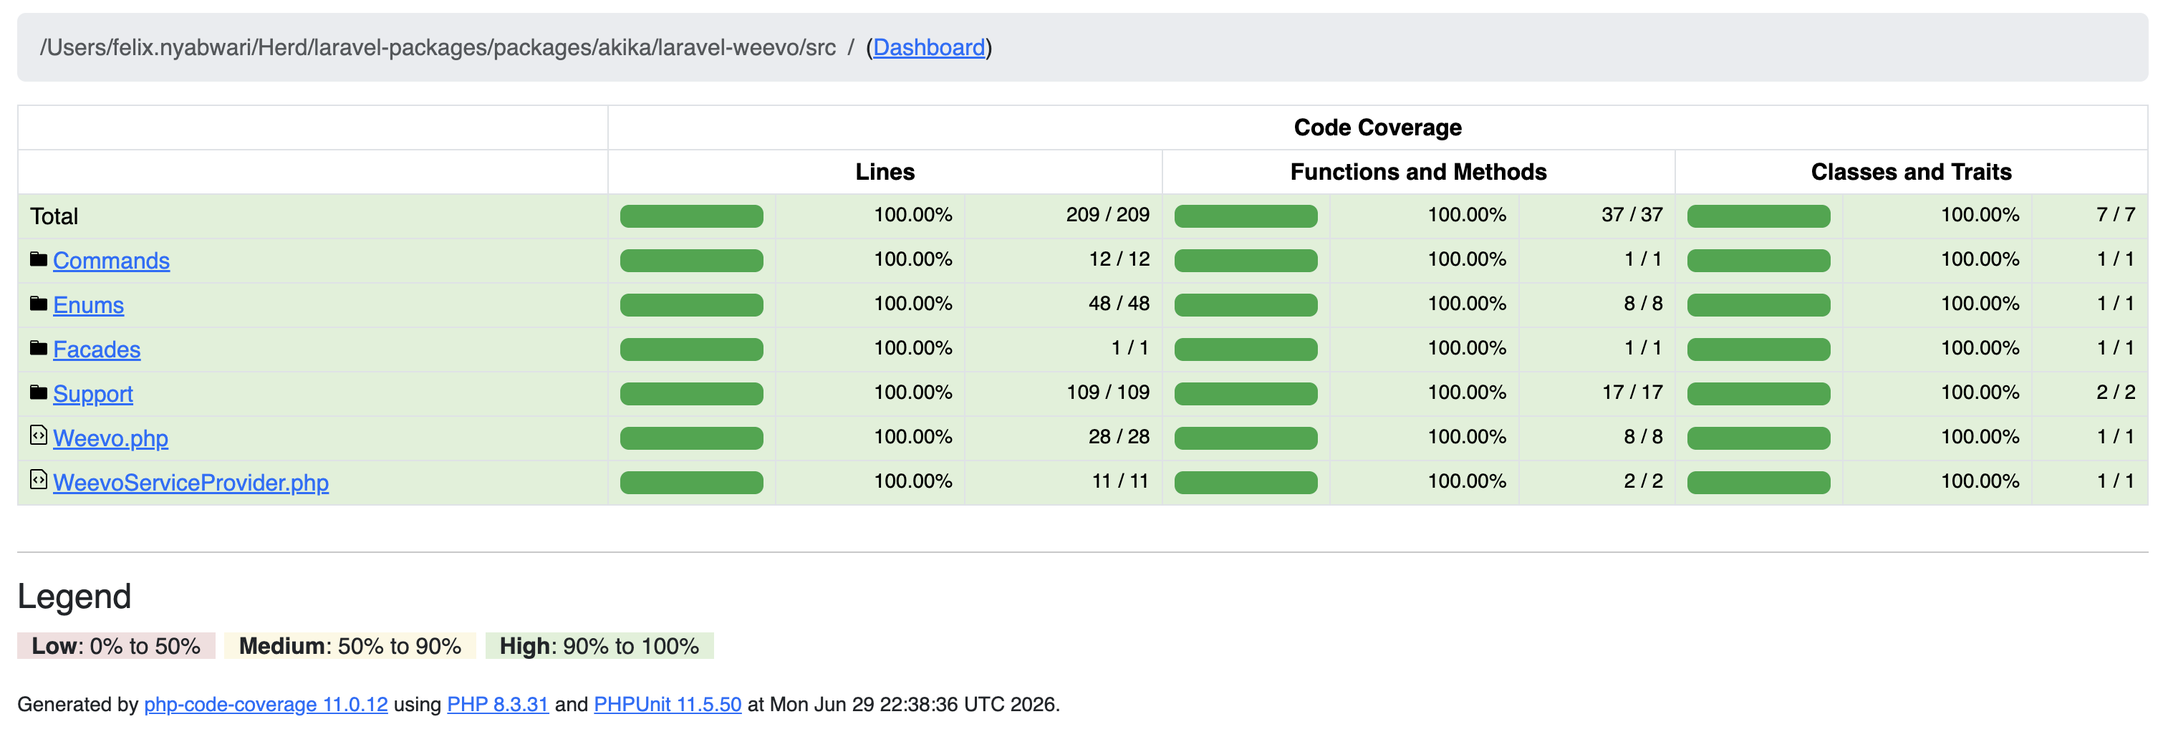
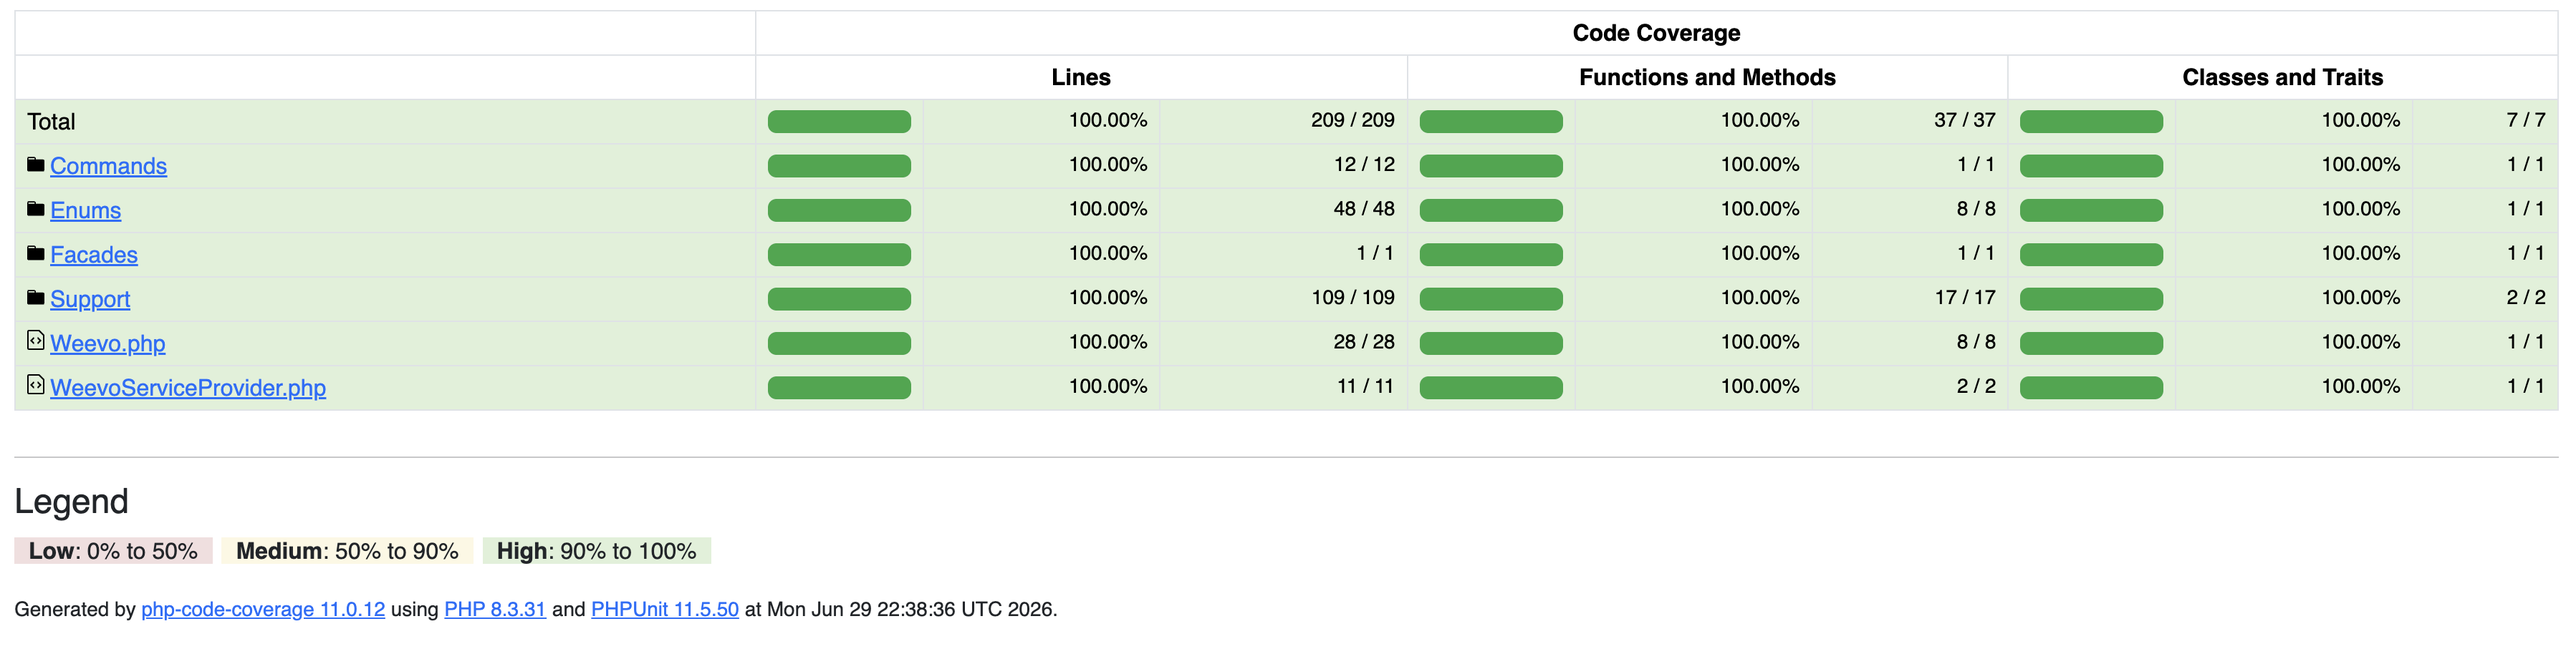
Updates test cases & coverage

diff --git a/tests/Features/WeevoTest.php b/tests/Features/WeevoTest.php
@@ -204,3 +204,69 @@ it('returns null when update payment status fails', function () {
 
     expect($result)->toBeNull();
 });
+
+it('cancels delivery successfully', function () {
+    $tripId = 'TRIP-001';
+
+    $cancelData = [
+        'reason' => 'Customer requested cancellation',
+    ];
+
+    $expectedResponse = [
+        'success' => true,
+        'message' => 'Delivery cancelled successfully',
+    ];
+
+    $client = \Mockery::mock(WeevoClient::class);
+
+    $client->shouldReceive('post')
+        ->once()
+        ->with("/deliveries/{$tripId}/cancel", $cancelData)
+        ->andReturn(fakeResponse(true, $expectedResponse));
+
+    $result = (new Weevo($client))
+        ->cancelDelivery($tripId, $cancelData);
+
+    expect($result)->toBe($expectedResponse);
+});
+
+it('returns null when delivery cancellation fails', function () {
+    $tripId = 'TRIP-001';
+
+    $cancelData = [
+        'reason' => 'Invalid cancellation request',
+    ];
+
+    $client = \Mockery::mock(WeevoClient::class);
+
+    $client->shouldReceive('post')
+        ->once()
+        ->with("/deliveries/{$tripId}/cancel", $cancelData)
+        ->andReturn(fakeResponse(false));
+
+    $result = (new Weevo($client))
+        ->cancelDelivery($tripId, $cancelData);
+
+    expect($result)->toBeNull();
+});
+
+it('cancels delivery without additional data', function () {
+    $tripId = 'TRIP-001';
+
+    $expectedResponse = [
+        'success' => true,
+        'message' => 'Delivery cancelled successfully',
+    ];
+
+    $client = \Mockery::mock(WeevoClient::class);
+
+    $client->shouldReceive('post')
+        ->once()
+        ->with("/deliveries/{$tripId}/cancel", [])
+        ->andReturn(fakeResponse(true, $expectedResponse));
+
+    $result = (new Weevo($client))
+        ->cancelDelivery($tripId);
+
+    expect($result)->toBe($expectedResponse);
+});

diff --git a/src/Weevo.php b/src/Weevo.php
@@ -46,7 +46,7 @@ class Weevo
         return $this->client;
     }
 
-    protected function authenticate(): ?array
+    public function authenticate(): ?array
     {
         $response = $this->client->post('/get-token');
 

diff --git a/README.md b/README.md
@@ -152,13 +152,7 @@ $response = Weevo::default()->createDelivery($sampleDeliveryData);
 
 ## 6. Date format
 
-You use several dates.
-
-State once:
-
-```md
-> All date fields should be supplied in `Y-m-d H:i:s` format.
-```
+All date fields should be supplied in `Y-m-d H:i:s` format.
 
 ## Get delivery details
 
@@ -221,7 +215,10 @@ All methods return json on success.
 [
     'success' => true,
     'message' => 'Delivery created successfully.',
-    'tripId' => 'TRIP-260630-003101-7054',
+    'data' => [
+        'tripId' => 'TRIP-260630-003101-7054',
+        'status' => 'pending'
+    ],
 ]
 ````
 
